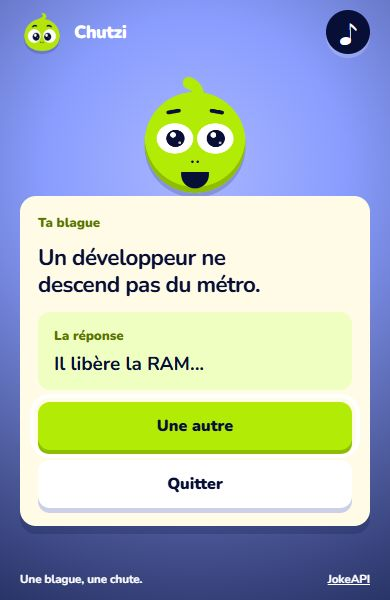
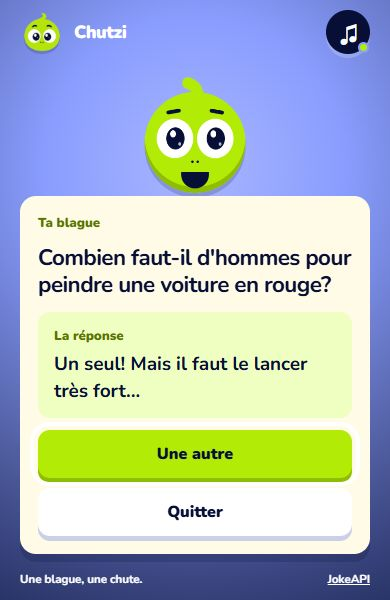
docs: document Chutzi audio experience

diff --git a/README.md b/README.md
@@ -16,15 +16,21 @@ Chutzi est une mini-expérience gamifiée qui récupère une blague en français
 
 ![Message affiché en cas d'erreur réseau](assets/images/previews/erreur.png)
 
+### Réglages audio
+
+![Sheet mobile des réglages audio](assets/images/previews/audio.png)
+
 ## Fonctionnalités
 
 - Chargement de blagues françaises avec `fetch`, `async` et `await`
 - Sélection de blagues en deux parties : question et réponse
 - Filtrage complémentaire des contenus pour conserver une expérience tout public
 - États de chargement, résultat et erreur clairement identifiables
-- Mascotte animée qui change d'expression selon l'étape
-- Son de clic sur les actions et rire au moment de révéler la réponse
-- Bouton pour couper les sons avec préférence conservée dans `localStorage`
+- Mascotte animée qui change d'expression selon l'étape et réagit après une période d'inactivité
+- Musique de fond atténuée automatiquement pendant les réactions sonores
+- Effets contextuels pour les clics, sauts, rires, erreurs et animations surprises
+- Réglages indépendants pour la musique et les effets, conservés dans `localStorage`
+- Modal audio sur ordinateur et bottom sheet sur mobile
 - Interface mobile-first utilisable au clavier
 - Réduction des animations selon `prefers-reduced-motion`
 
